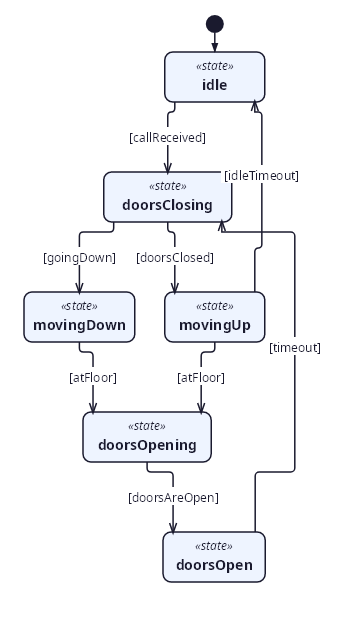
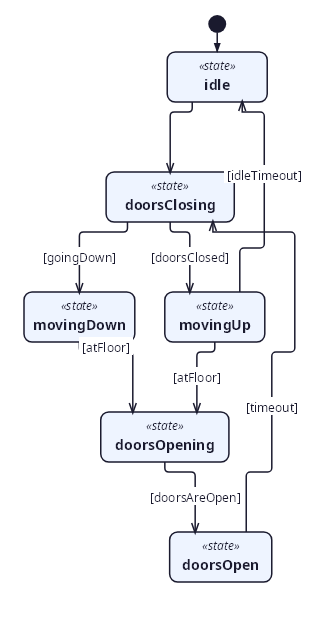
Add initial pseudostate transition and attached-transition idiom to gallery
- 03-elevator-state.sysml: add 'first start then idle;' as a real initial
  transition (previously relied only on the first-declared-state heuristic),
  and convert the idle/doorsClosing pair to the attached-transition idiom
  ('state idle; accept callReceived then doorsClosing;').
- Regenerate ElevatorStateTransitionView.svg/.png; visually verified per
  diagram-quality.md's Agent Checklist.
- Update the gallery README's descriptive text for this example.

Changed region(s): [[0.0595, 0.0, 0.9226, 0.95], [0.2083, 0.6742, 0.2381, 0.7355]]

diff --git a/docs/gallery/README.md b/docs/gallery/README.md
@@ -98,7 +98,11 @@ SVG: [`svg/CoreLinkInterconnectionView.svg`](svg/CoreLinkInterconnectionView.svg
 ## 3. State Transition View — Elevator Controller
 
 Shows states placed top-to-bottom by the layered layout pipeline, an initial pseudo-state, and
-guarded transitions routed as orthogonal `[guard]`-labelled arrows.
+guarded transitions routed as orthogonal `[guard]`-labelled arrows. The initial marker targets
+the state named by an explicit `first start then idle;` transition (rather than the
+first-declared state), and the `idle`/`doorsClosing` pair uses the attached-transition idiom
+(`state idle; accept callReceived then doorsClosing;`) instead of a standalone `transition`
+statement.
 
 Model: [`models/03-elevator-state.sysml`](models/03-elevator-state.sysml) ·
 SVG: [`svg/ElevatorStateTransitionView.svg`](svg/ElevatorStateTransitionView.svg)
